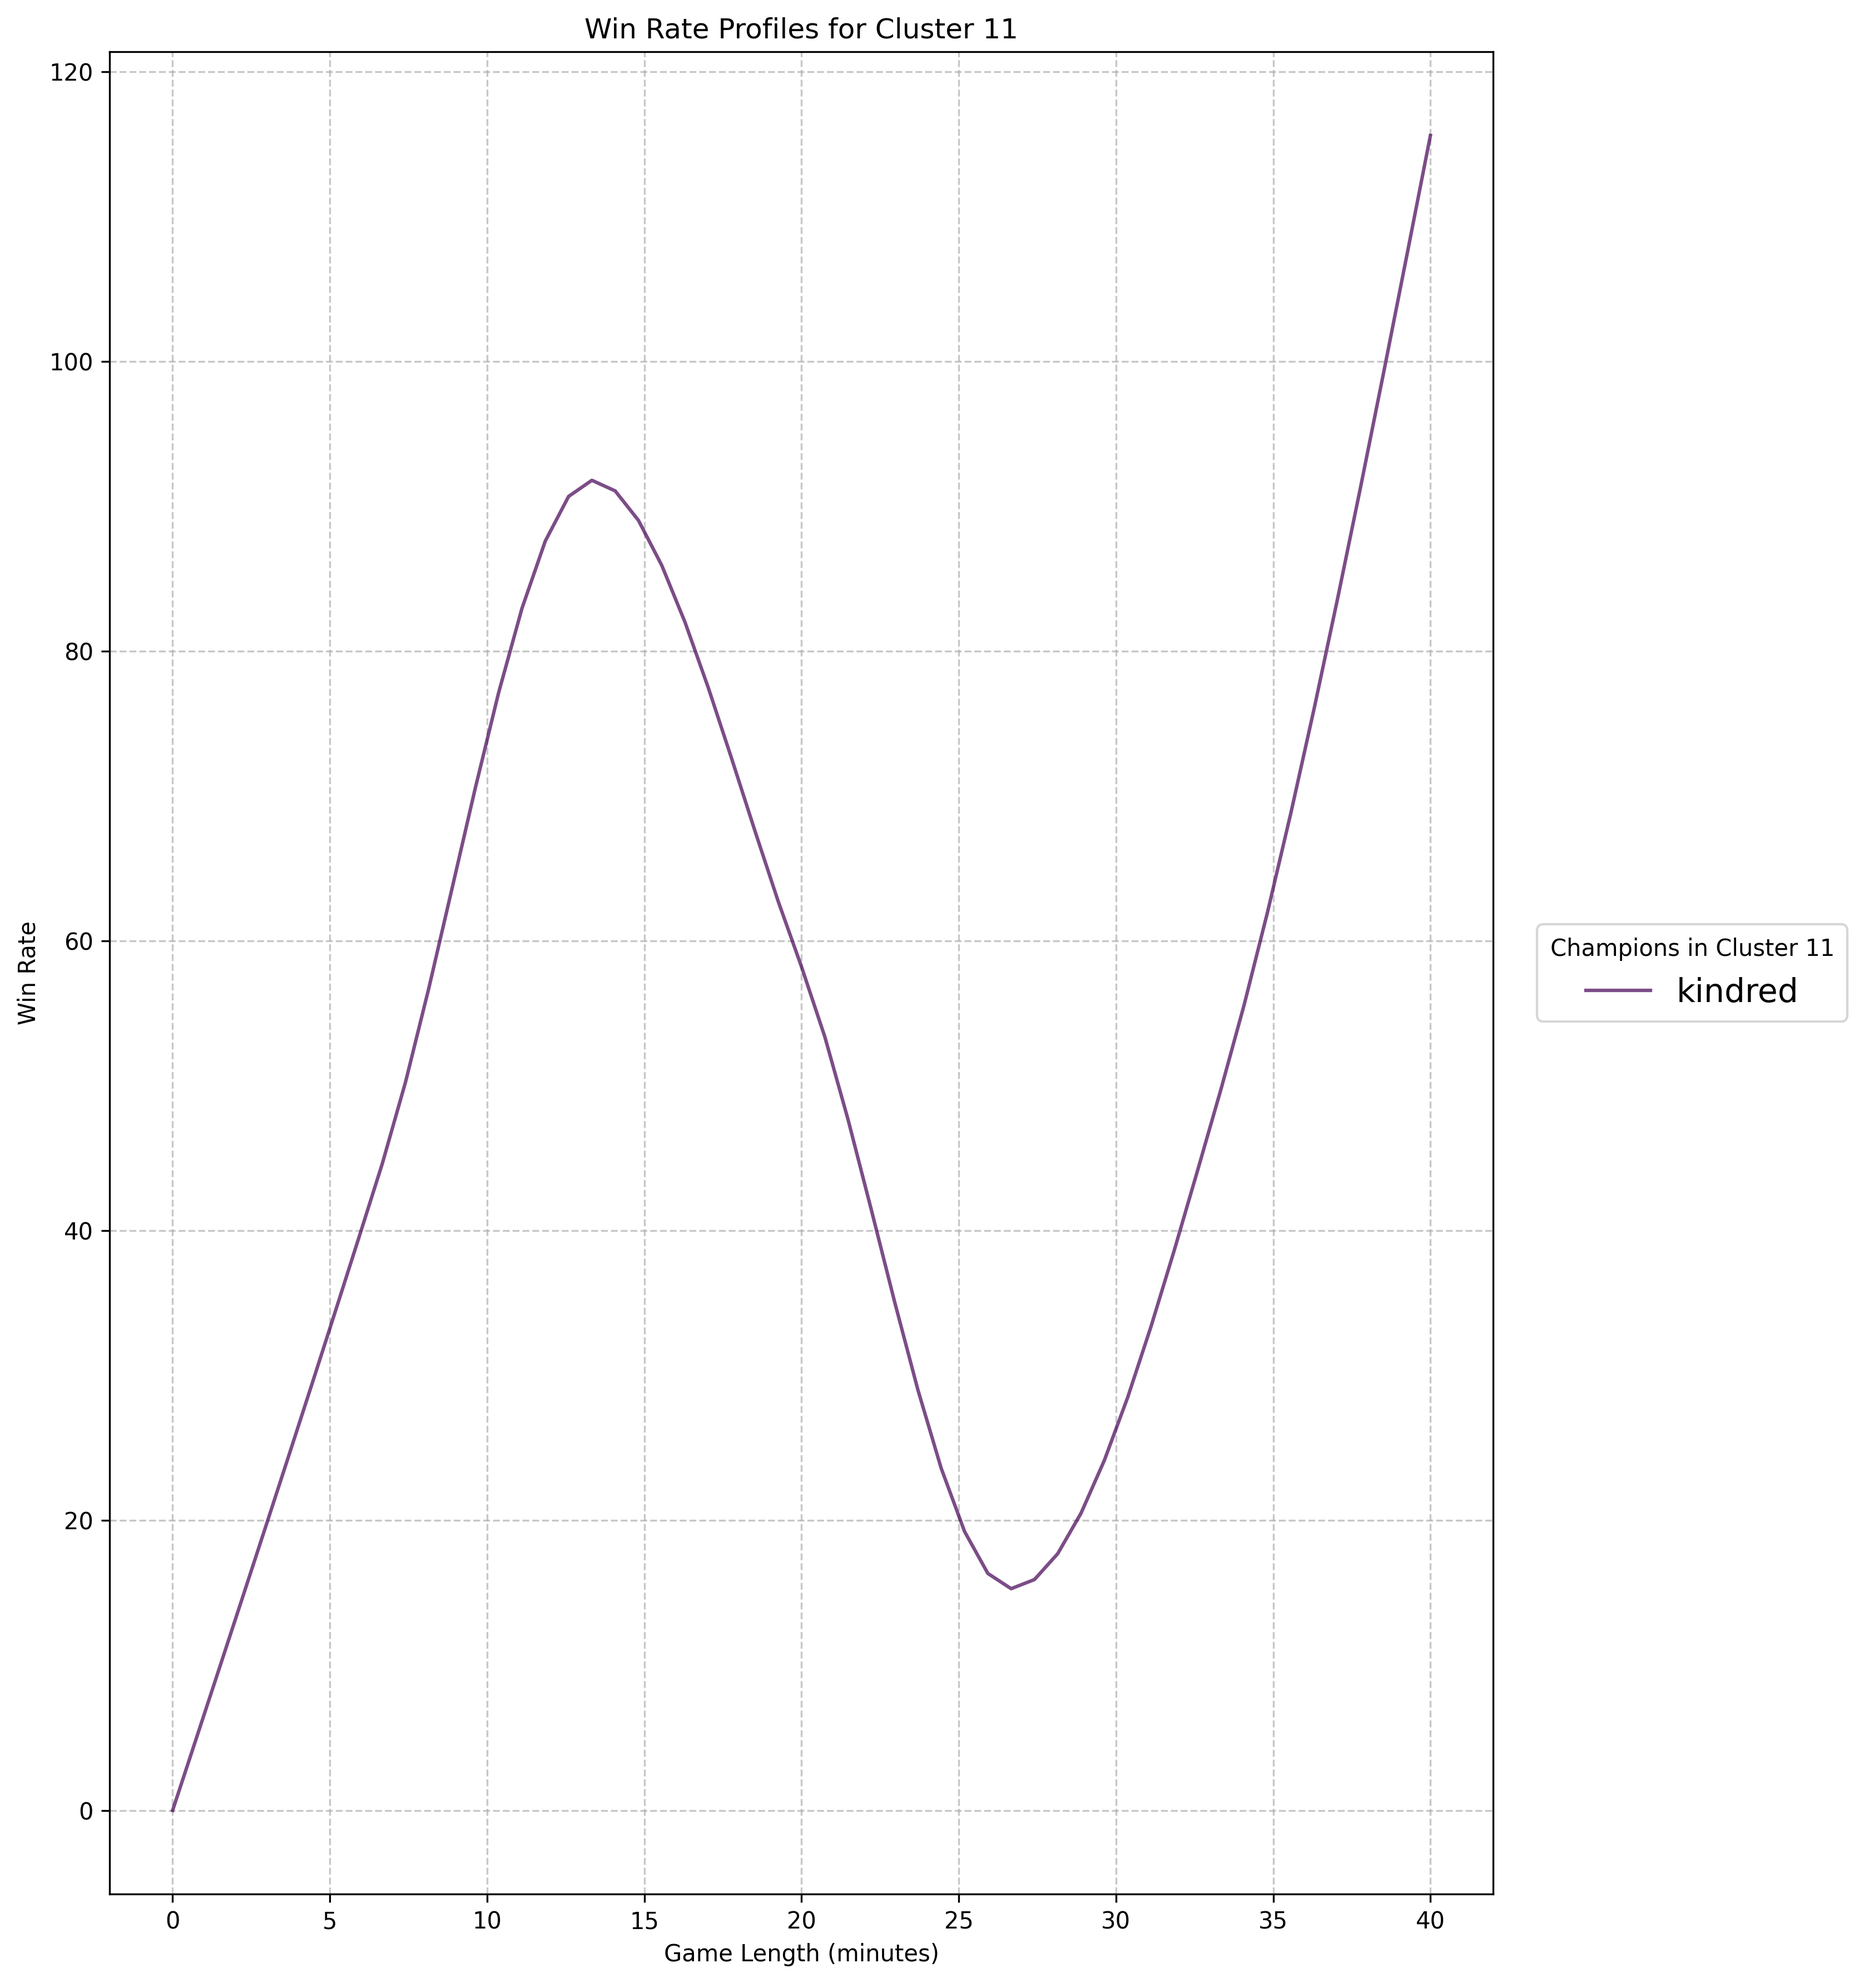
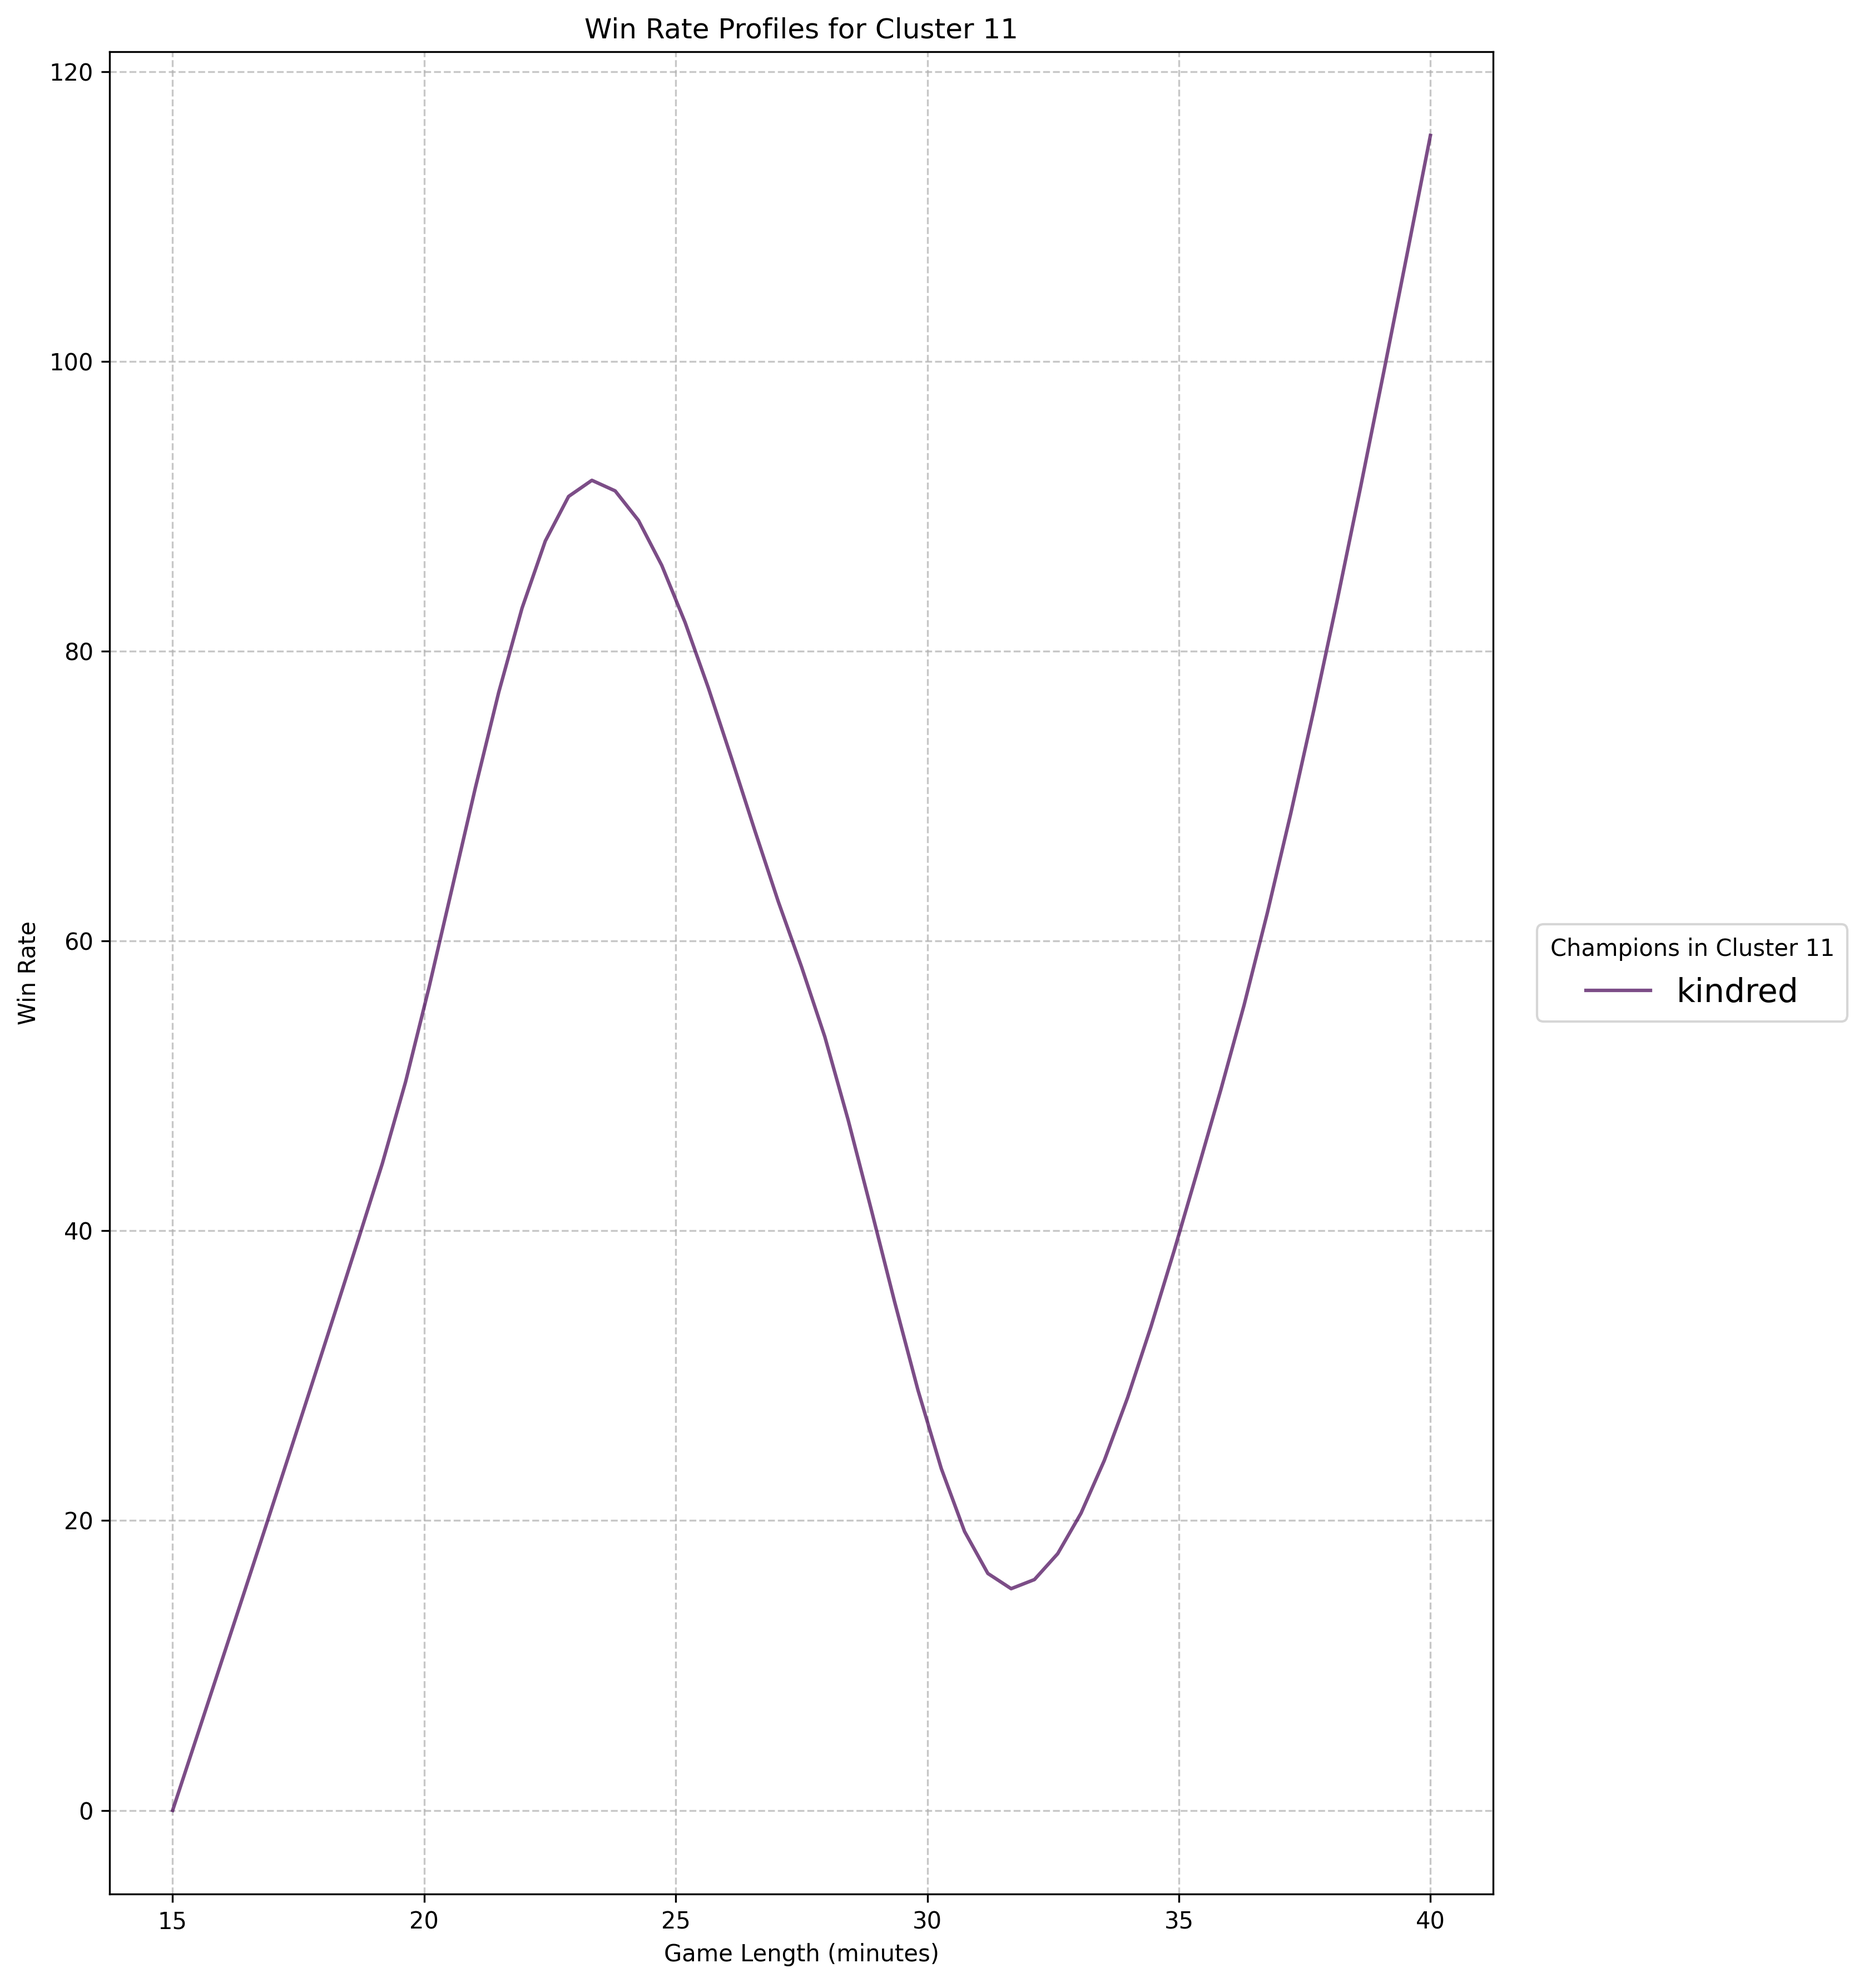
Update game time range from 0-40 to 15-40 minutes

diff --git a/src/processing/svg_parser.py b/src/processing/svg_parser.py
@@ -15,7 +15,7 @@ import numpy as np
 from src.utils.logger import error, info, warning
 
 COORD_PAIR_SIZE = 2
-MIN_TIME = 0
+MIN_TIME = 15
 MAX_TIME = 40
 
 
